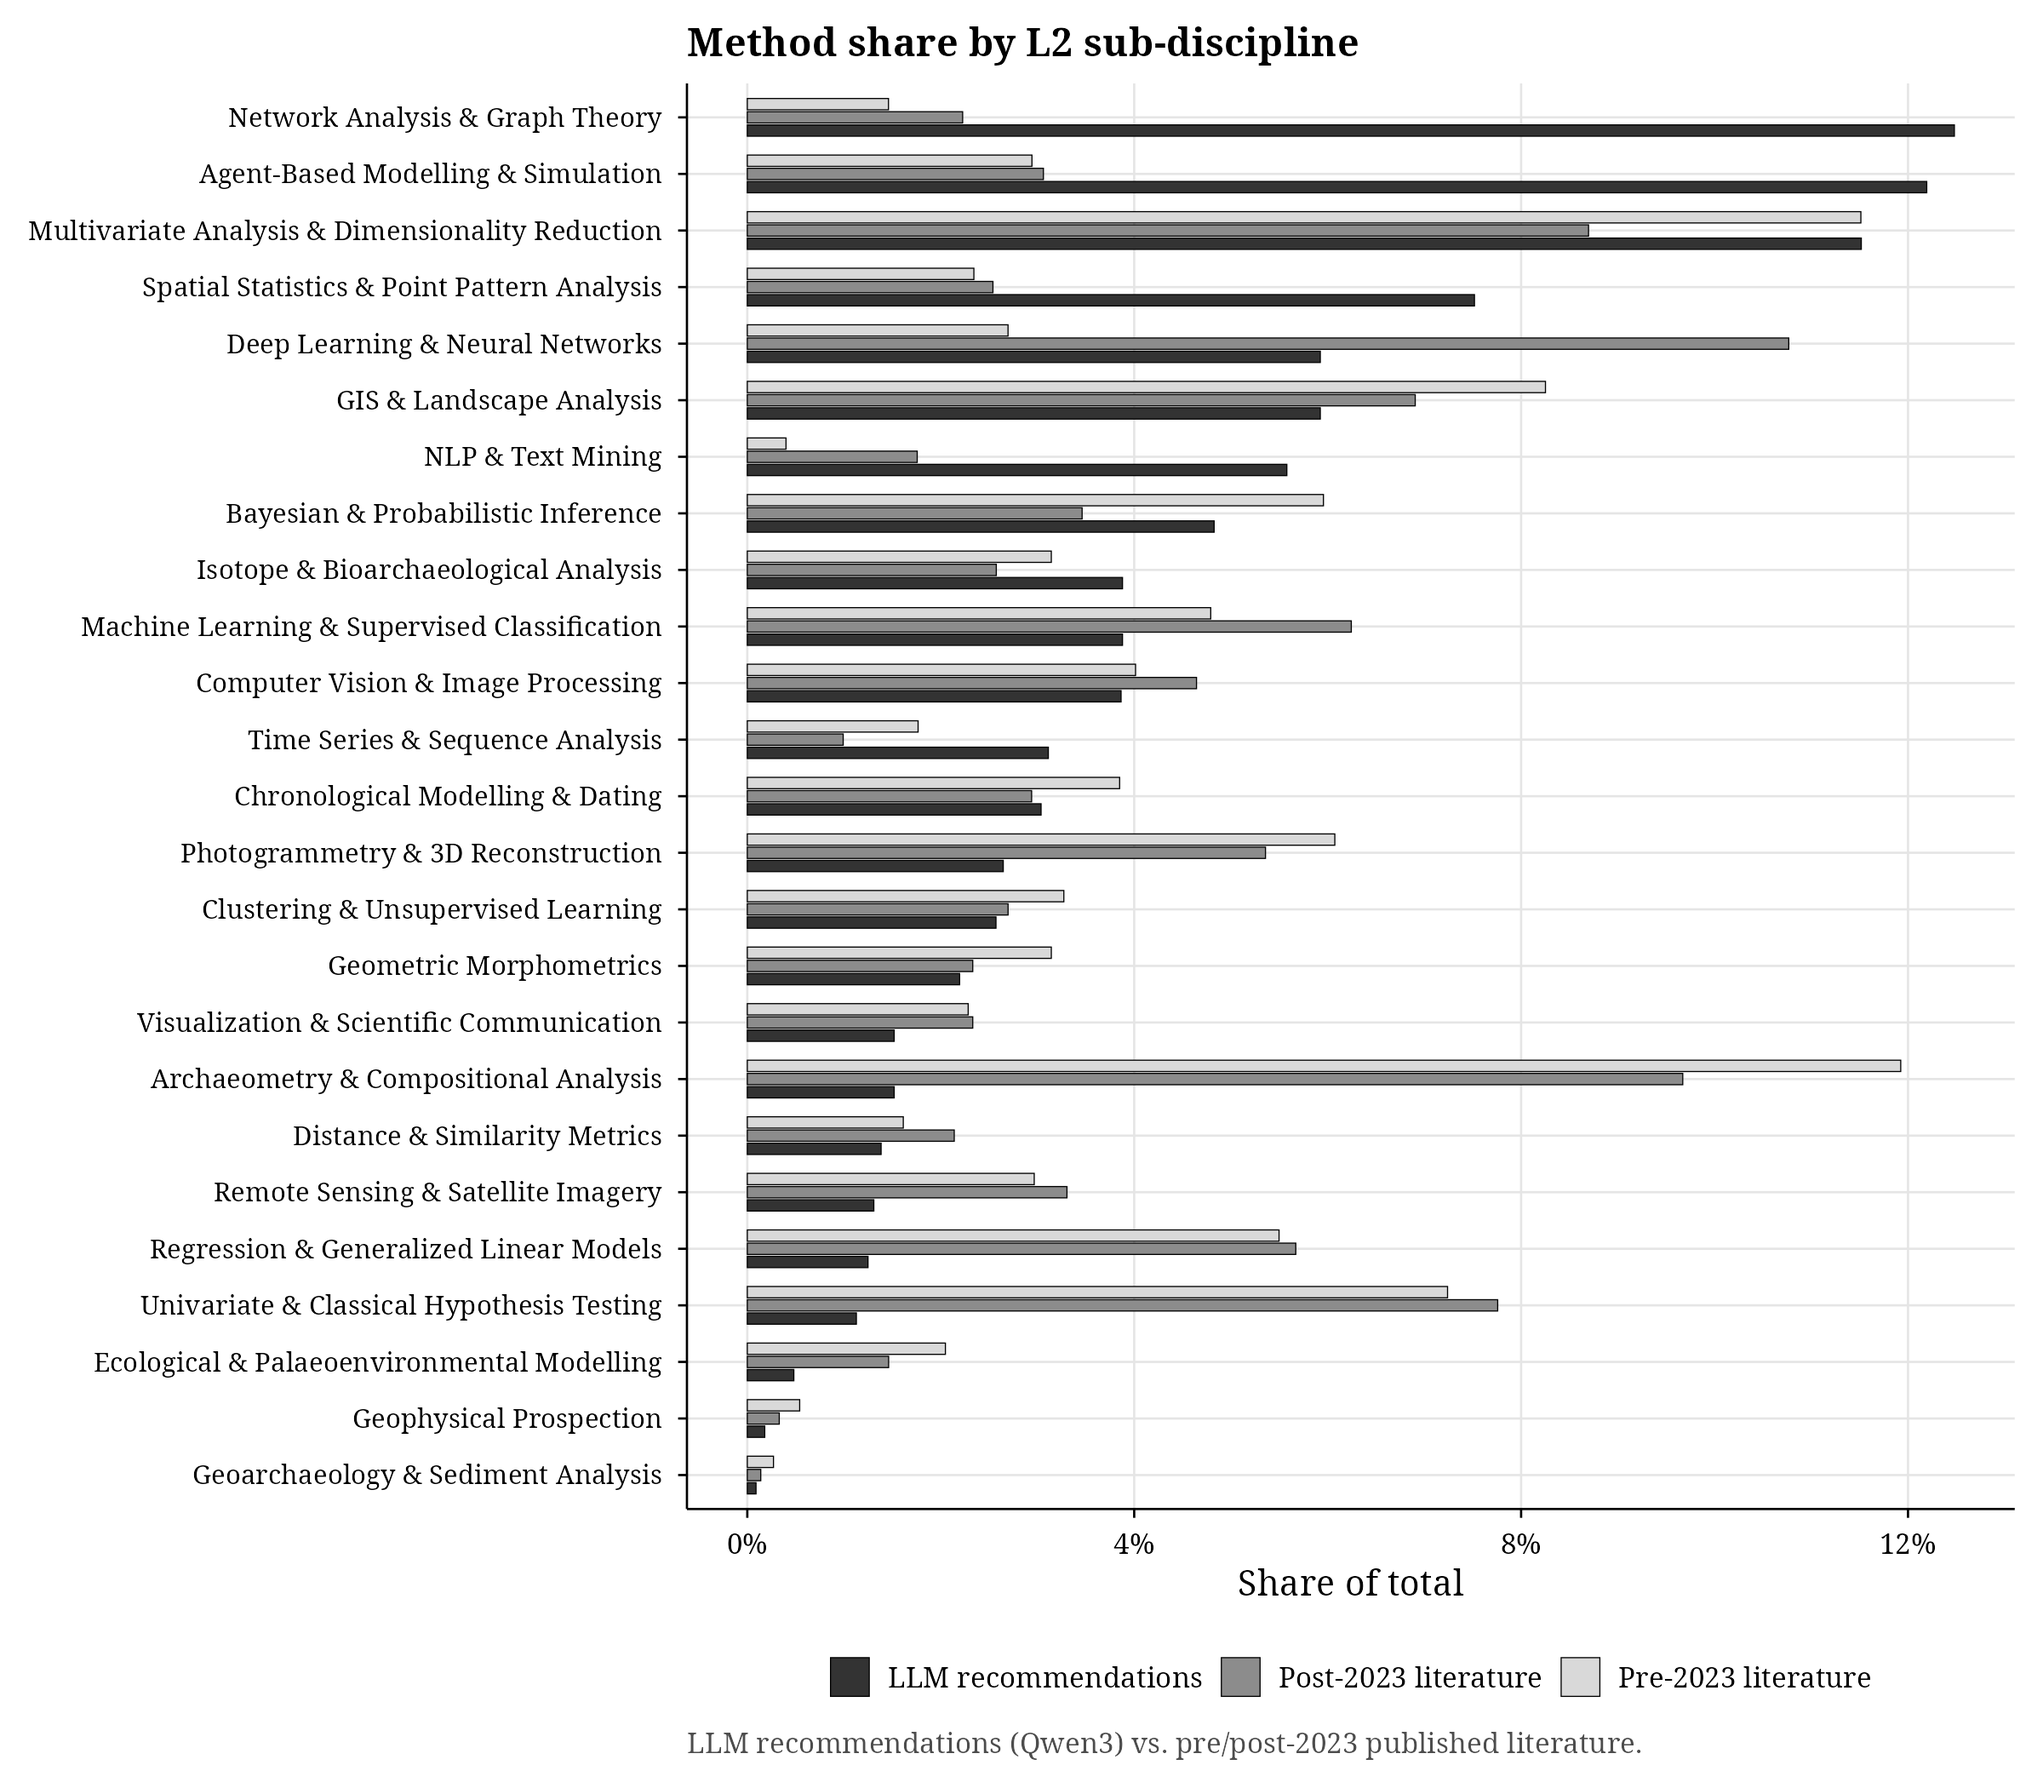
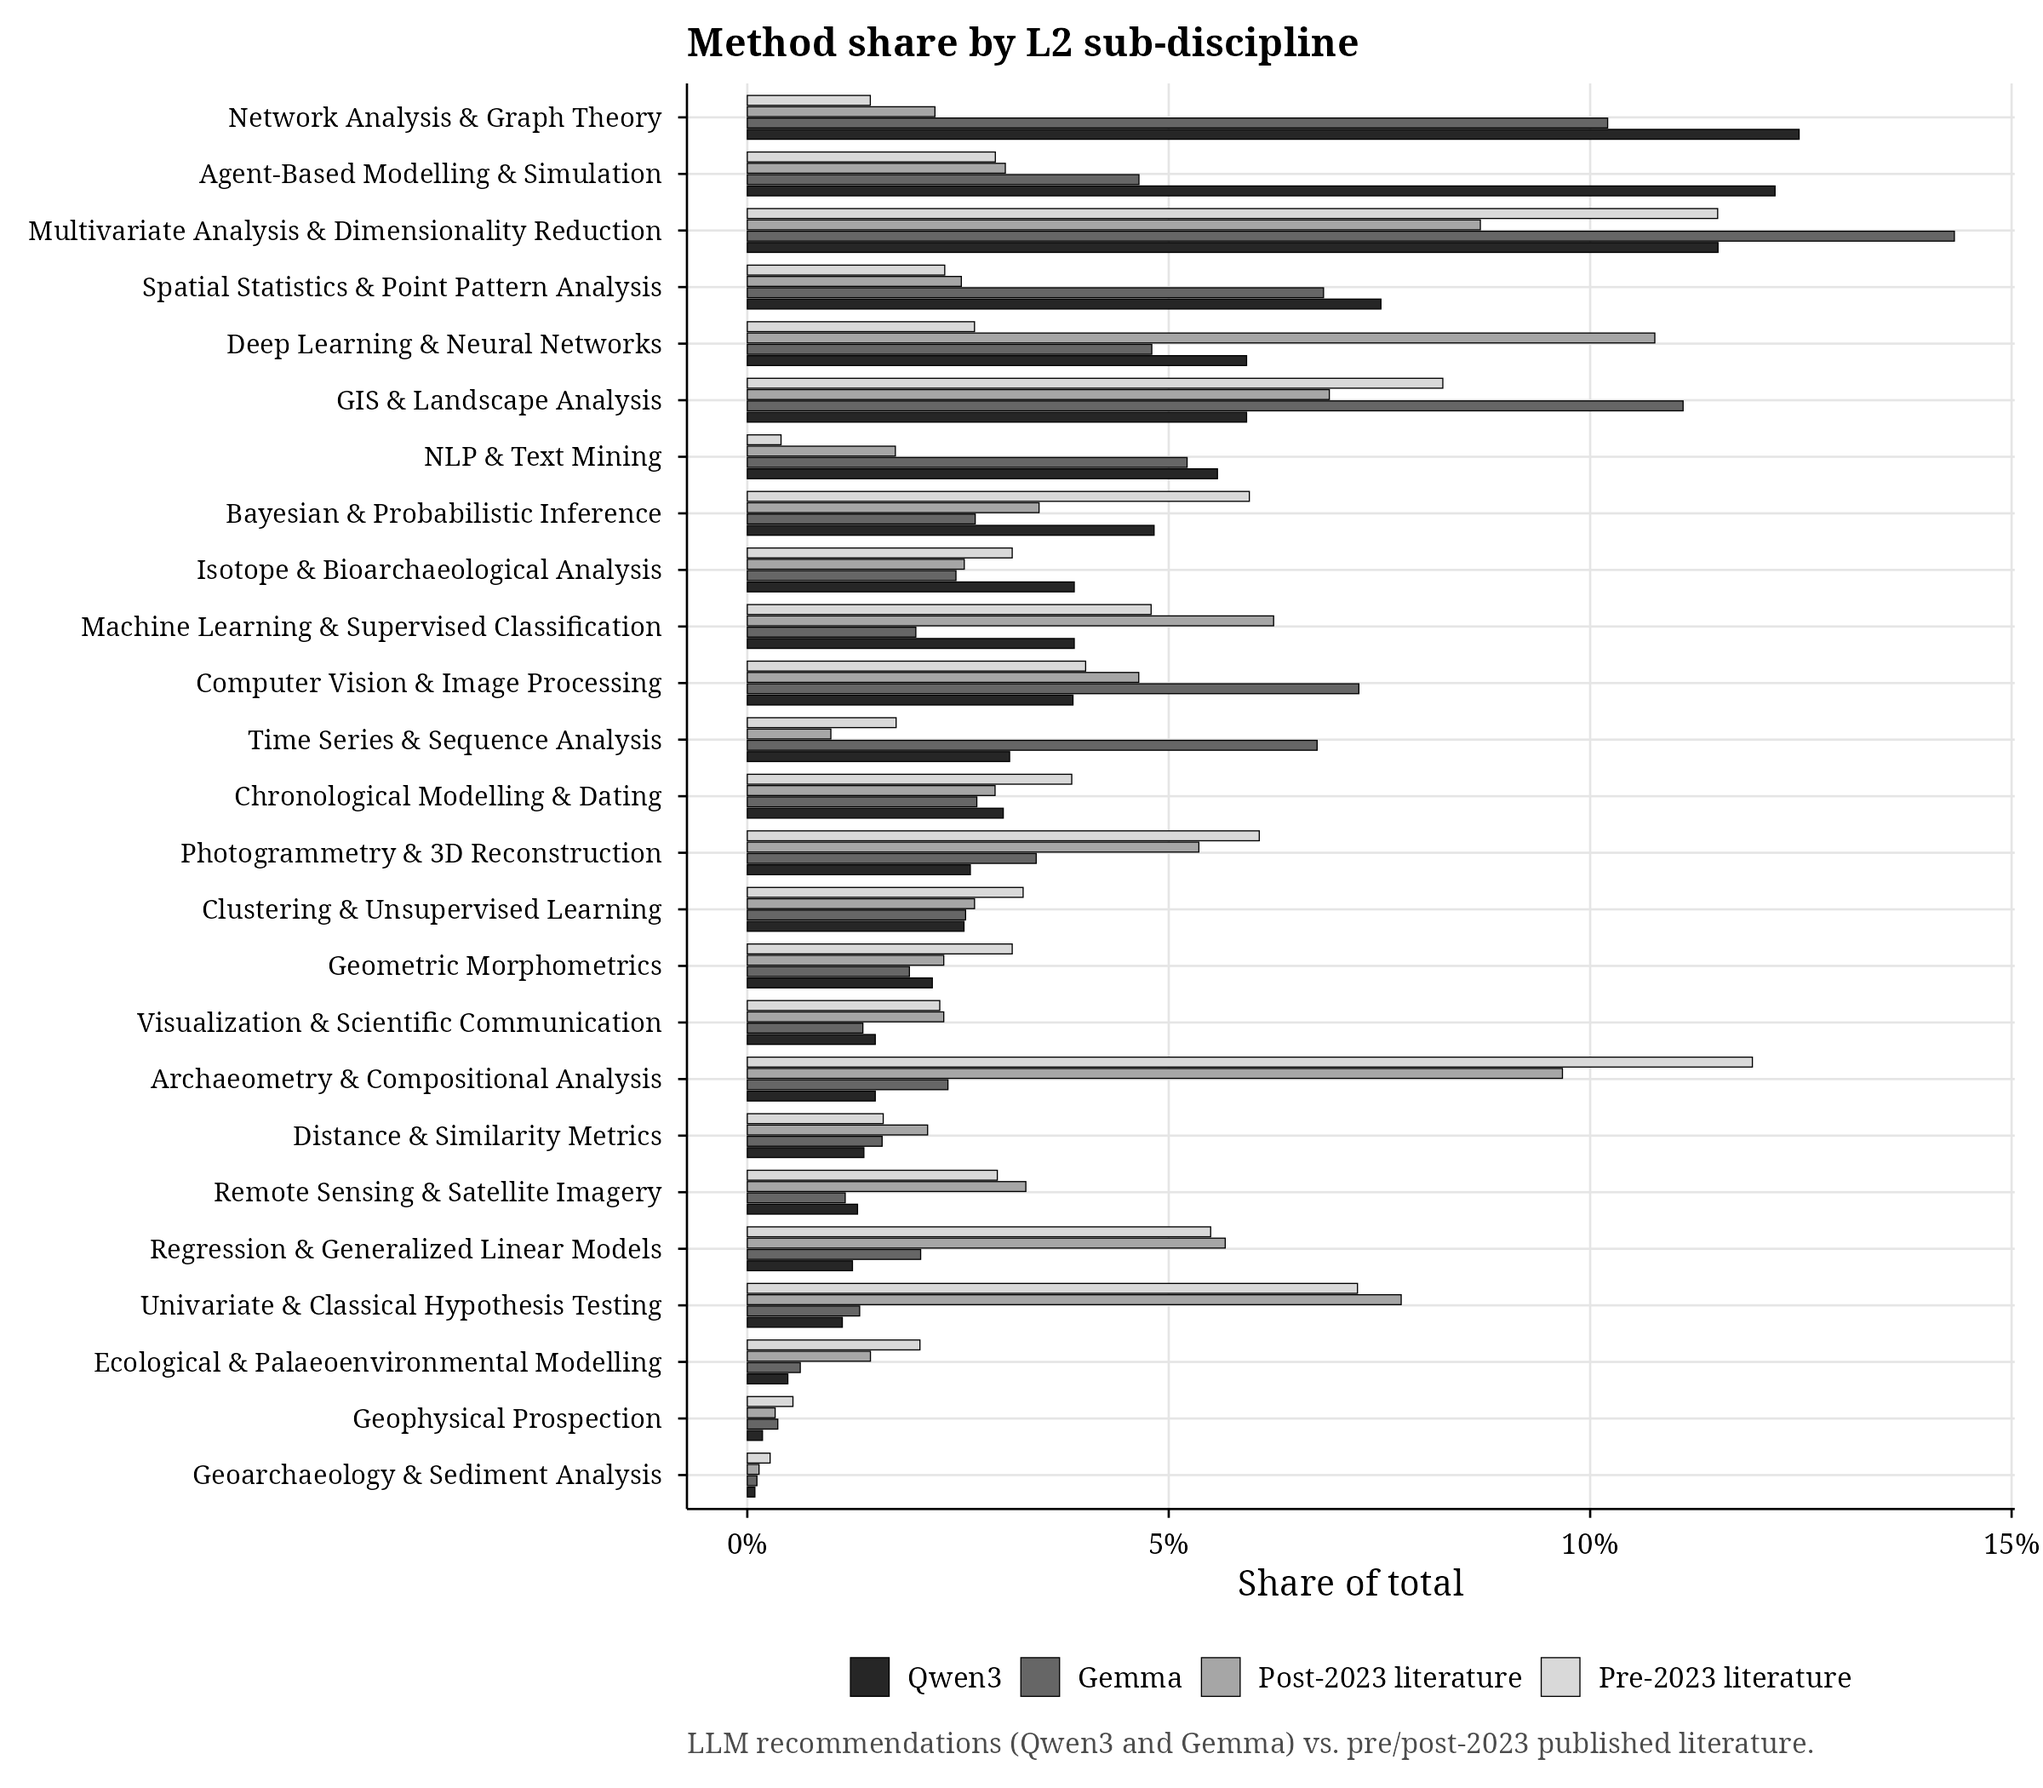
Updated figures

Changed region(s): [[0.3438, 0.031, 0.9688, 0.8357], [0.4062, 0.9286, 0.9062, 0.9905], [0.9688, 0.8357, 1.0, 0.8667]]

diff --git a/docs/main_text_figures.md b/docs/main_text_figures.md
@@ -44,68 +44,60 @@ one-third the magnitude of baseline trend variation.
 
 ---
 
-## Fig. 3 — Method share by L2 sub-discipline: literature vs LLM recommendations
+## Fig. 3 — Method share by L2 sub-discipline: literature vs both LLMs
 
 **Section:** Results (experiment descriptive, 4.2)
 
 **What it shows:** Horizontal bar chart comparing method shares across the 24 L2
-categories for three sources: pre-2023 literature, post-2023 literature, and
-LLM recommendations (Qwen3).
+categories for four sources: pre-2023 literature, post-2023 literature,
+Qwen3 recommendations, and Gemma recommendations.
 
-**Results:** LLM recommendations dramatically over-represent a handful of L2
-categories (notably Network Analysis, Discrete and Agent-Based Simulation,
-Machine Learning Methods) and under-represent the long tail of specialist
-techniques (Isotope Analysis, Archaeobotany, Faunal Analysis). The literature
-distribution is far more even. Post-2023 literature shares are close to
-pre-2023 shares for most categories.
+**Results:** Both LLMs dramatically over-represent a handful of L2 categories
+(notably Network Analysis, Agent-Based Simulation, Machine Learning Methods)
+and under-represent the long tail of specialist techniques (Isotope Analysis,
+Archaeobotany, Faunal Analysis). The literature distribution is far more even.
+Post-2023 literature shares are close to pre-2023 shares for most categories.
+Qwen3 and Gemma show very similar concentration patterns, reinforcing that
+this is a structural property of LLM recommendations rather than a
+model-specific artefact.
 
 ![Fig. 3](../data/output/figures/main_text/fig3_l2_triple_bar.png)
 
 ---
 
-## Fig. 4 — Top 20 recommended L3 methods, shaded by gamma direction
-
-**Section:** Results (experiment descriptive, 4.2)
-
-**What it shows:** The 20 most-recommended L3 methods by Qwen3, with bars shaded
-by the sign of gamma (dark = gaining post-2023, light = declining). Annotated
-with the signed posterior mean gamma value.
-
-**Results:** The majority of the top 20 recommended methods have positive gamma
-(gaining post-2023), visually foreshadowing the mean-collapse hypothesis. The
-most-recommended methods (Network Analysis, Discrete and Agent-Based Simulation,
-NLP, Machine Learning) all show positive gamma, suggesting LLMs preferentially
-recommend methods that are on the rise in the literature.
-
-![Fig. 4](../data/output/figures/main_text/fig4_top20_l3_gamma.png)
-
----
-
-## Fig. 5 — Top 10 L3 methods: Qwen3 vs Gemma side-by-side
+## Fig. 4 — Top 10 L3 methods: Qwen3 vs Gemma, shaded by post-2023 trajectory
 
 **Section:** Results (cross-model comparison, 4.2)
 
 **What it shows:** Union of each model's top 10 recommended L3 methods, compared
-as share of total recommendations.
+as share of total recommendations. Bars are shaded by the sign of gamma
+(dark = gaining share post-2023, light = declining), linking the cross-model
+comparison to the bibliometric trajectory from Section 4.1.
 
 **Results:** High structural agreement between the two LLMs. Network Analysis and
 Modeling dominates both (~10% share each). The rank ordering is largely preserved
 across architectures, though Gemma allocates slightly more to GIS Modeling and
 Multivariate Statistical & Machine Learning, while Qwen3 favours Discrete and
-Agent-Based Simulation more strongly. This convergence across independently
-trained models strengthens the claim that the recommendation patterns are
-structural, not model-specific artefacts.
+Agent-Based Simulation more strongly. Most of the top-recommended methods are
+shaded as gaining post-2023, visually foreshadowing the question tested in
+Figs. 6–7: is the concentration collapse driven by post-2023 momentum, or
+simply by training-corpus prevalence?
 
-![Fig. 5](../data/output/figures/main_text/fig5_top10_qwen_vs_gemma.png)
+![Fig. 4](../data/output/figures/main_text/fig4_top10_qwen_vs_gemma_gamma.png)
 
 ---
 
-## Fig. 6 — Concentration posteriors: literature vs LLM profiles
+## Fig. 5 — Concentration posteriors: literature vs LLM profiles
 
 **Section:** Results (concentration analysis, 4.3 / 3.4.1)
 
 **What it shows:** Posterior distributions of the effective number of methods
 (inverse Simpson) for pre/post-2023 literature and each LLM x profile combination.
+Each distribution comes from a Dirichlet conjugate posterior: the observed method
+counts are combined with a uniform prior (all alpha = 1, i.e. one pseudocount
+per method), yielding a posterior Dirichlet(1 + counts). Draws from this
+posterior are transformed into inverse Simpson indices, giving a full uncertainty
+distribution over effective method diversity for each source.
 
 **Results:** Literature is far more diverse than any LLM configuration: post-2023
 literature median = 113.6 [90% CI: 110.5, 116.9], pre-2023 = 88.4 [85.4, 91.4].
@@ -115,33 +107,45 @@ is clearly visible: novice profiles (~21 effective methods) are the most
 concentrated, intermediate (~30) in the middle, and expert profiles the most
 diverse (Qwen3 expert = 60.9 [57.0, 64.9]; Gemma expert = 47.2 [43.7, 50.6]).
 Even the most diverse LLM configuration (Qwen3 expert) covers roughly half
-as many effective methods as the pre-2023 literature.
+as many effective methods as the pre-2023 literature. This establishes that
+method concentration collapse is real and large in LLM recommendations — the
+remaining question is what drives it.
 
-![Fig. 6](../data/output/figures/main_text/fig6_concentration_posteriors.png)
+![Fig. 5](../data/output/figures/main_text/fig5_concentration_posteriors.png)
 
 ---
 
-## Fig. 7 — Training-corpus prevalence vs post-2023 trajectory (NegBin2 posteriors)
+## Fig. 6 — Training-corpus prevalence vs post-2023 trajectory (NegBin2 posteriors)
 
 **Section:** Results (mean-collapse test, 4.4 / 3.4.2)
 
-**What it shows:** (A) Posterior density of b_gamma (post-2023 excess effect) and
-(B) b_pre (corpus prevalence effect) for both Qwen3 and Gemma, overall (all
-profiles pooled).
+**What it shows:** A two-predictor negative binomial regression that separates
+two possible drivers of LLM method concentration. The outcome is n_rec (how many
+times each L3 method was recommended by the LLM). The two predictors are:
+(A) b_pre, which weights log1p(pre-2023 literature count) — a proxy for how
+prevalent each method was in the LLM's training corpus; and (B) b_gamma, which
+weights each method's posterior gamma (its post-2023 excess growth above
+baseline trend, estimated from the bibliometric model in Section 4.1). If LLMs
+simply echo what was common in their training data, b_pre should be positive.
+If LLMs additionally track which methods are gaining momentum post-2023
+(mean-collapse amplification), b_gamma should also be positive.
 
 **Results:** b_pre is credibly positive for both models: Qwen3 = 0.658
 [90% CI: 0.504, 0.803], Gemma = 0.580 [0.411, 0.754]. Methods that appear
 more often in the pre-2023 literature are recommended more often — LLMs echo
-the training corpus. b_gamma is centred near zero for both models: Qwen3 = 0.083
-[-1.470, 1.656], Gemma = 0.146 [-1.422, 1.724]. No additional mean-collapse
-signal beyond what the training-corpus echo already explains. The
-mean-collapse hypothesis is not supported beyond basic corpus prevalence.
+what was prevalent in their training corpus. b_gamma is centred near zero for
+both models: Qwen3 = 0.083 [-1.470, 1.656], Gemma = 0.146 [-1.422, 1.724].
+The concentration collapse documented in Fig. 5 is real, but its mechanism is
+training-corpus echo (b_pre), not post-2023 momentum amplification (b_gamma).
+LLMs concentrate on popular methods because those methods dominated the
+pre-2023 literature they were trained on, not because they are tracking
+which methods are currently trending.
 
-![Fig. 7](../data/output/figures/main_text/fig7_bpre_bgamma_posteriors.png)
+![Fig. 6](../data/output/figures/main_text/fig6_bpre_bgamma_posteriors.png)
 
 ---
 
-## Fig. 8 — Post-2023 trajectory coefficient by profile and model
+## Fig. 7 — Post-2023 trajectory coefficient by profile and model
 
 **Section:** Results (mean-collapse test, profile gradient, 4.4)
 
@@ -151,13 +155,16 @@ mean-collapse hypothesis is not supported beyond basic corpus prevalence.
 **Results:** b_gamma remains centred near zero across all profile-model
 combinations: novice (Qwen3: 0.107; Gemma: 0.087), intermediate (Qwen3: 0.035;
 Gemma: 0.032), expert (Qwen3: 0.224; Gemma: 0.218). All 90% credible intervals
-comfortably span zero. The predicted novice > expert gradient in mean-collapse
-sensitivity is not observed — if anything, expert profiles show the largest
-(though still non-significant) b_gamma point estimates, contrary to hypothesis.
-The consistency across profiles and architectures reinforces that the null
-finding on b_gamma is robust rather than a power artefact.
+comfortably span zero. The concentration collapse visible in Fig. 5 (LLMs
+spanning ~30 effective methods vs ~110 in the literature) is not driven by
+post-2023 momentum: LLMs do not preferentially recommend methods that are
+currently gaining share. The predicted novice > expert gradient in
+mean-collapse sensitivity is also absent — if anything, expert profiles show
+the largest (though still non-significant) b_gamma point estimates, contrary
+to hypothesis. The consistency across profiles and architectures reinforces
+that the null finding on b_gamma is robust rather than a power artefact.
 
-![Fig. 8](../data/output/figures/main_text/fig8_bgamma_by_profile.png)
+![Fig. 7](../data/output/figures/main_text/fig7_bgamma_by_profile.png)
 
 ---
 
@@ -173,10 +180,11 @@ overload the main text:
 | Beta-gamma scatter | `exploratory/plot_beta_gamma_scatter.png` | Exploratory; visually interesting but subsumed by the NegBin2 |
 | Top 20 L4 methods (Qwen3) | `exploratory/plot_top20_l4.png` | L4 detail too granular for main text |
 | Top 20 L4 methods (Gemma) | `exploratory_gemma/plot_top20_l4_gemma.png` | Same, for second model |
-| Top 20 L3 methods (Gemma) | `exploratory_gemma/plot_top20_l3_gemma.png` | Gemma parallel of Fig. 4 |
-| L2 triple bar (Gemma) | `exploratory_gemma/plot_l2_triple_bar_gemma.png` | Gemma parallel of Fig. 3 |
-| Concentration comparison bar chart | `comparison/plot_concentration_comparison.png` | Simpler version of Fig. 6 (no uncertainty); useful as a quick summary table |
-| Qwen3 vs Gemma L3 scatter | `comparison/plot_l3_qwen_vs_gemma.png` | Cross-model correlation; supplementary to Fig. 5 |
+| Top 20 L3 methods (Qwen3 only) | `main_text/fig4_top20_l3_gamma.png` | Qwen3-only version; superseded by combined Fig. 4 |
+| Top 20 L3 methods (Gemma only) | `exploratory_gemma/plot_top20_l3_gemma.png` | Gemma-only version; superseded by combined Fig. 4 |
+| L2 triple bar (Gemma only) | `exploratory_gemma/plot_l2_triple_bar_gemma.png` | Gemma-only version; superseded by combined Fig. 3 |
+| Concentration comparison bar chart | `comparison/plot_concentration_comparison.png` | Simpler version of Fig. 5 (no uncertainty); useful as a quick summary table |
+| Qwen3 vs Gemma L3 scatter | `comparison/plot_l3_qwen_vs_gemma.png` | Cross-model correlation; supplementary to Fig. 4 |
 | Robustness: 2022 breakpoint | `robustness/plot_robustness_2022.png` | Sensitivity check |
 | Prior predictive | `workflow/plot_prior_predictive.png` | Bayesian workflow diagnostic |
 | Prior sensitivity | `workflow/plot_prior_sensitivity.png` | Bayesian workflow diagnostic |
